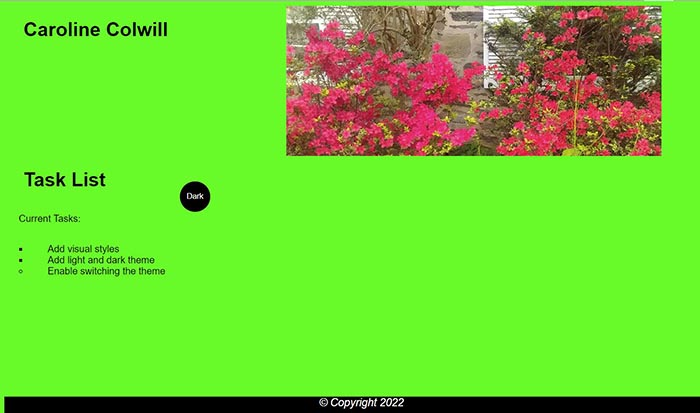
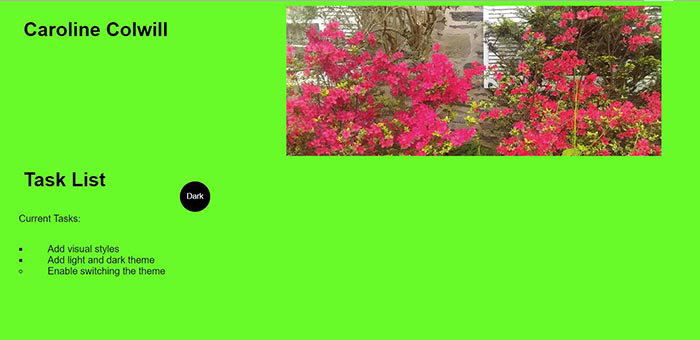
Add files via upload

diff --git a/index.html b/index.html
@@ -11,7 +11,9 @@
 <body>
 <header>
 
-    <a href="#"><img class="image" src="JavaScriptHeaderImageXLg.jpg" alt="Portfolio Home Page image.  Text says JavaScript.">
+    <a href="https://carolinedccc.github.io/JavaScriptPortfolio/">
+        <img class="image" src="JavaScriptHeaderImageXLg.jpg" 
+        alt="Portfolio Home Page image.  Text says JavaScript.">
         </a>
 
 
@@ -35,29 +37,51 @@
 
   <div id="section1">
     <ul>
-        <li>Lab 1&mdash;HTML Review and Git Hosting</li>
-        <li>Lab 2&mdash;Number Tricks</li>
-        <li>Lab 3&mdash;Number Tricks Enhanced</li>
-        <li>Lab 4&mdash;MadLibs</li>
-        <li>Lab 5&mdash;Debugging</li>
-        <li>Lab 6&mdash;Test Score App</li>
-        <li>Lab 7&mdash;Super Hero Cycling Banners</li>
-        <li>Lab 8&mdash;The Changing Caterpillar</li>
-        <li>Lab 9&mdash;Monster Mash</li>
-        <li>Lab 10&mdash;Account Creation Form Validation</li>
-        <li>Lab 11&mdash;Alien Sighting Form</li>
+        <li><a href="https://carolinedccc.github.io/simple-website/" target="_blank">
+            Lab 1&mdash;Build a Simple Website Using HTML, CSS, JS, and VS Code</a></li>
+        <li><a href="https://carolinedccc.github.io/JavaScriptPortfolio/" target="_blank">
+            Lab 2&mdash;Creating Your Portfolio Web Page</a></li>
+        <li>Lab 3b&mdash;Test Scores - First Version</li>
+        <li>Lab 3&mdash;Number Tricks</li>
+        <li>Lab 4&mdash;Number Tricks Enhanced</li>
+        <li>Lab 5&mdash;MadLibs</li>
+        <li>Lab 5b&mdash;Tax Calculator App</li>
+        <li>Lab 6&mdash;Debugging</li>
+        <li>Lab 6b&mdash;Email Form Revisited - How to Use Query Strings</li>
+        <li>Lab 7&mdash;Test Score App</li>
+        <li>Lab 7b&mdash;Test Score App Enhanced Improved Input Validation</li>
+        <li>Lab 8&mdash;Super Hero Cycling Banners</li>
+        <li>Lab 9&mdash;The Changing Caterpillar</li>
+        <li>Lab 10&mdash;Monster Mash</li>
+        <li>Lab 11&mdash;Account Creation Form Using jQuery Validation</li>
+        <li>Lab 12&mdash;Alien Sighting Form</li>
+        <li>Lab 13&mdash; Create a State-of-the-Art MERN Stack Movie Review App</li>
     </ul>
     </div>
 
-
+ <div id="images-div">
     <div id="img-div">
-        <h2>Simple Website</h2>
-        <a href="https://carolinedccc.github.io/simple-website/" target="_blank"><img class="image" src="SimpleWebsiteImageLg.jpg" alt="Image of a simple website that uses beginners JavaScript">
+        <h2><a href="https://carolinedccc.github.io/simple-website/" target="_blank">
+            Simple Website</a></h2>
+        <a href="https://carolinedccc.github.io/simple-website/" target="_blank">
+            <img class="image" src="SimpleWebsiteImageLg.jpg" 
+            alt="Image of a simple website that uses beginners JavaScript">
             </a>
     </div>
 
+    <div id="img-div2">
+        <h2><a href="https://carolinedccc.github.io/JavaScriptPortfolio/" target="_blank">
+            Portfolio Page</a></h2>
+        <a href="https://carolinedccc.github.io/JavaScriptPortfolio/" target="_blank">
+            <img class="image" src="JavaScriptWebsiteImageLg.jpg" 
+            alt="Image of a simple portfolio page to display websites developed in a JavaScript course.">
+            </a>
+    </div>
+
+</div>
+
 </main>
-<footer class="fluid-width" id="margin-special">&copy; Copyright 2022 Caroline Colwill Contact: <a href="mailto: caroline@carolinecolwill.com">caroline@carolinecolwill.com</a></footer>
+<footer class="fluid-width" id="margin-special">&copy; Copyright 2022 Caroline Colwill Contact: <a href="mailto:caroline@carolinecolwill.com">caroline@carolinecolwill.com</a></footer>
 
 </body>
 </html>

diff --git a/main.css b/main.css
@@ -12,11 +12,24 @@ main {background-color: #efc68f;
 
 h1 {padding-left: 1.5em;}
 
+h2 a:link {text-decoration: none;}
+h2 a:hover {text-decoration: underline;}
+h2 a:visited {text-decoration: none;}
+
 p {padding-left: 1em;
     font-size: 18px;}
 
+
+p a:link {color: #000000;}
+p a:hover {color: #0000ff;}
+p a:visited {color: #000000;}
+
 ul li {font-size: 20px;
         font-weight: bold;}
+
+li a:link {color: #000000;}
+li a:hover {color: #0000ff;}
+li a:visited {color: #000000;}
 
 
 #section1 {
@@ -33,6 +46,15 @@ ul li {font-size: 20px;
             padding-left: 2em;
             padding-right: 2em;}
 
+
+ 
+#img-div2 {
+                background-color: #fcdba2;
+                padding-top: 1.5em;
+                padding-bottom: 1.5em;
+                padding-left: 2em;
+                padding-right: 2em;}
+
 footer {width: 100%;
         padding: 1.5em;
        
@@ -42,6 +64,10 @@ footer {width: 100%;
         
         text-align: center;
         }
+
+footer a:link {color: #ffffff;}
+footer a:hover {color: #0000ff;}
+footer a:visited {color: #ffffff;}
 
 #margin-special {margin-top: 0;}
 
@@ -59,6 +85,14 @@ footer {width: 100%;
         }
 
 #img-div {
+        background-color: #fcdba2;
+        padding-top: 1.5em;
+        padding-bottom: 1.5em;
+        padding-left: 2em;
+        padding-right: 2em;
+       }
+
+#img-div2 {
         background-color: #fcdba2;
         padding-top: 1.5em;
         padding-bottom: 1.5em;
@@ -84,21 +118,83 @@ footer {width: 100%;
         background-color: #f9d49d;
         padding-top: 1.5em;
         padding-left: 1.5em;
-        padding-bottom: 10.5em;
-        min-height: 620px;}
+        padding-right: 1.5em;
+        padding-bottom: 0.5em;
+        min-height: 850px;
+        margin-right: -0.3em;}
 
-#img-div {float: right;
-        width: 50%;
+
+#images-div {float: right;
+            width: 50%;
+            background-color: #fcdba2;
+            min-height: 850px;
+            margin-left: -0.3em;}       
+
+#img-div {
+        width: 99%;
+        margin: auto;
         background-color: #fcdba2;
         padding-top: 1.5em;
         padding-bottom: 1.7em;
         padding-left: 2em;
         padding-right: 2em;
-        min-height: 620px;}
+        }
+
+
+#img-div2 {
+            width: 99%;
+            margin: auto;
+            background-color: #fcdba2;
+            padding-top: 1.5em;
+            padding-bottom: 1.7em;
+            padding-left: 2em;
+            padding-right: 2em;
+            }
 
 #margin-special {margin-top: -1em;}
 
 footer {clear: both;}
 
+
+}
+
+@media (min-width: 1024px) {
+
+#section1 {float: left;
+        width: 40%;
+        background-color: #f9d49d;
+        padding-top: 1.5em;
+        padding-left: 1.5em;
+        padding-bottom: 0.5em;
+        min-height: 900px;}
+
+#images-div {float: right;
+            width: 60%;
+            background-color: #fcdba2;
+            min-height: 900px;
+            margin-left: 0;}
+
+    #img-div {
+        width: 90%;
+        background-color: #fcdba2;
+        padding-top: 1.5em;
+        padding-bottom: 1.7em;
+        padding-left: 2em;
+        padding-right: 2em;
+        }
+
+
+ #img-div2 {
+            width: 90%;
+            background-color: #fcdba2;
+            padding-top: 1.5em;
+            padding-bottom: 1.7em;
+            padding-left: 2em;
+            padding-right: 2em;
+            }
+
+#margin-special {margin-top: -1em;}
+
+footer {clear: both;}
 
 }
